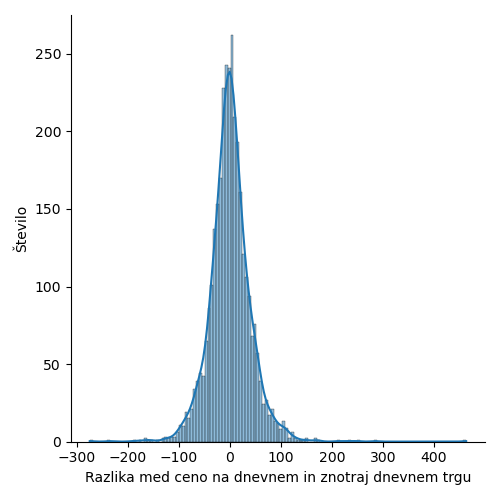
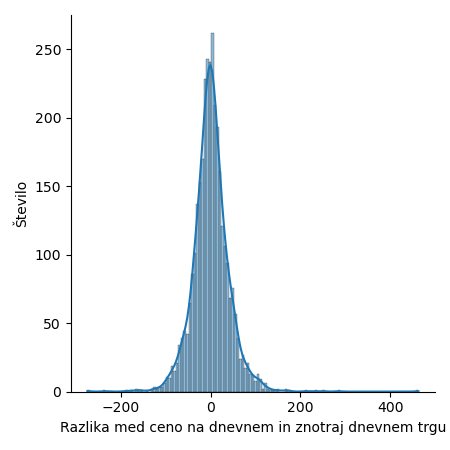
Commited all plots

Changed region(s): [[0.0311, 0.0311, 0.9956, 0.9644]]

diff --git a/src/data_analysis/data_analysis.py b/src/data_analysis/data_analysis.py
@@ -1,22 +1,61 @@
+import itertools
+
 import numpy as np
 import pandas as pd
 import pmdarima as pmd
 import seaborn as sns
 import datetime as dt
 from scipy import stats
-from matplotlib import pyplot as plt
+from matplotlib import pyplot as plt, rcParams
 from scipy.stats import linregress
 from statsmodels.graphics.tsaplots import plot_acf, plot_pacf
 from statsmodels.tsa.seasonal import seasonal_decompose
 from statsmodels.tsa.stattools import grangercausalitytests
+from statsmodels.tsa.api import VAR
 
 from data_retrieval import get_wind_forecast, \
     get_transformed_day_ahead, get_intra_day_min_max_mean, get_diff, get_pct_change_dataframe, get_intra_day_by_hours, \
     get_wind, get_solar, get_residual_load, get_wind_diff, get_solar_diff, get_residual_load_diff, \
-    get_wind_deltas_previous_24h, get_solar_deltas_previous_24h, get_residual_deltas_previous_24h
+    get_wind_deltas_previous_24h, get_solar_deltas_previous_24h, get_residual_deltas_previous_24h, get_intra_day
 
 plot_path = "plots"
 csv_path = "csv"
+
+
+def plot_day_ahead_and_intra_day(start_date='2021-11-09',
+                                 end_date='2022-03-23'):
+    """
+    Plots all intra-day and day-ahead prices
+    :param start_date: start date of plot (x-axis)
+    :param end_date: end date of plot (x-axis)
+    """
+    df_intra_day = get_intra_day(start_date=start_date, end_date=end_date)
+    df_day_ahead = get_transformed_day_ahead(start_date=start_date, end_date=end_date)
+
+    ax = df_intra_day.plot(x='trd_execution_time', y='trd_price', figsize=(6, 3))
+    df_day_ahead.plot(x='trd_delivery_time_start', y='trd_price', use_index=True, ax=ax, figsize=(6, 3))
+
+    ax.legend(["Znotraj dnevni trg", "Dnevni trg"])
+    ax.set_xlabel("Čas")
+    ax.set_ylabel("Cena")
+    plt.tight_layout()
+    plt.savefig(f'{plot_path}/full_plot.png')
+
+
+def plot_weather_and_residual(start_date='2021-11-09',
+                                 end_date='2022-03-23'):
+    df_wnd = get_wind(start_date=start_date, end_date=end_date).rename(columns={'wnd Actual de': 'Dejanska vrednost'})
+    df_spv = get_solar(start_date=start_date, end_date=end_date).rename(columns={'spv Actual de': 'Dejanska vrednost'})
+    df_rdl = get_residual_load(start_date=start_date, end_date=end_date).rename(columns={'rdl Actual de': 'Dejanska vrednost'})
+
+    df_wnd.plot()
+    plt.savefig(f'{plot_path}/wnd.png')
+
+    ax = df_spv.plot()
+    plt.savefig(f'{plot_path}/spv.png')
+
+    ax = df_rdl.plot()
+    plt.savefig(f'{plot_path}/rdl.png')
 
 
 def plot_price_at_given_time(start_date='2021-11-09',
@@ -171,7 +210,7 @@ def get_day_ahead_as_intra_day_prediction_accuracy(box_plot=False,
     df.plot(kind='hist', bins=100, color='blue', edgecolor='black')
     plt.savefig(f'{plot_path}/{name}_change_hist.png')
 
-    ax = sns.displot(data=df, x=column, kde=True)
+    ax = sns.displot(data=df, x=column, kde=True, height=4.5, aspect=1)
     ax.set(xlabel='Razlika med ceno na dnevnem in znotraj dnevnem trgu', ylabel='Število')
     plt.savefig(f'{plot_path}/{name}_dist.png')
 
@@ -349,13 +388,13 @@ def plot_seasonality():
         plt.tight_layout()
         plt.savefig(f'{plot_path}/seasonality-{(title.lower())}.png')
 
-    plot(seasonal_decompose(df_intra_day['trd_price_mean'], period=1), 'Hourly')
-    plot(seasonal_decompose(df_intra_day['trd_price_mean'], period=24), 'Daily')
-    plot(seasonal_decompose(df_intra_day['trd_price_mean'], period=168), 'Weekly')
-    plot(seasonal_decompose(df_intra_day['trd_price_mean'], period=730), 'Monthly')
+    plot(seasonal_decompose(df_intra_day['trd_price_mean'].rename('Povprečna cena po urah'), period=1), 'Hourly')
+    plot(seasonal_decompose(df_intra_day['trd_price_mean'].rename('Povprečna cena po urah'), period=24), 'Daily')
+    plot(seasonal_decompose(df_intra_day['trd_price_mean'].rename('Povprečna cena po urah'), period=168), 'Tedensko')
+    plot(seasonal_decompose(df_intra_day['trd_price_mean'].rename('Povprečna cena po urah'), period=730), 'Mesečno')
 
 
-def plot_auto_correlation():
+def plot_correlation():
     """
     Plots auto-correlation and partial auto-correlation
     """
@@ -364,10 +403,16 @@ def plot_auto_correlation():
     df_intra_day['trd_delivery_time_start'] = pd.to_datetime(df_intra_day['trd_delivery_time_start'])
     df_intra_day = df_intra_day.set_index('trd_delivery_time_start')
     plot_acf(df_intra_day['trd_price_mean'])
+    plt.ylabel("Avtokorelacija")
+    plt.xlabel("Zamik v urah")
+    plt.title("")
     plt.savefig(f'{plot_path}/auto_correlation.png')
 
     # Partial auto-correlation plot
     plot_pacf(df_intra_day['trd_price_mean'], method='ywm')
+    plt.ylabel("Parcialna avtokorelacija")
+    plt.xlabel("Zamik")
+    plt.title("")
     plt.savefig(f'{plot_path}/partial_auto_correlation.png')
 
 
@@ -434,6 +479,7 @@ def granger_causality(start_date='2021-11-09',
     :return: pandas dataframe with p-values for granger causality for all hour combinations
     """
     df = get_intra_day_by_hours(start_date=start_date, end_date=end_date)
+    df_diff = df
     stationary = False
     max_diff = 0
     # Make time series stationary
@@ -441,28 +487,63 @@ def granger_causality(start_date='2021-11-09',
         stationary = True
         for hour in range(24):
             # Augmented Dickey-Fuller test
-            diff = pmd.arima.ndiffs(df[hour], test="adf")
+            diff = pmd.arima.ndiffs(df_diff[hour], test="adf")
             if diff > 0:
                 stationary = False
             if diff > max_diff:
                 max_diff = diff
             # Kwiatkowski–Phillips–Schmidt–Shin test
-            diff = pmd.arima.ndiffs(df[hour], test="kpss")
+            diff = pmd.arima.ndiffs(df_diff[hour], test="kpss")
             if diff > 0:
                 stationary = False
             if diff > max_diff:
                 max_diff = diff
         while max_diff > 0:
-            df = df.diff().dropna()
+            df_diff = df_diff.diff().dropna()
             max_diff -= 1
 
-    return get_grangers_causation_matrix(df, variables=df.columns)
+    # Determine the appropriate maximum lag length for the variables in the VAR, say p, using the usual methods.
+    # Specifically, base the choice of p on the usual information criteria, such as AIC, SIC.
+    model = VAR(df)  # recall that rawData is w/o difference operation
+    for i in [1, 2, 3, 4, 5, 6, 7, 8, 9, 10, 11, 12]:
+        result = model.fit(i)
+        try:
+            print('Lag Order =', i)
+            print('AIC : ', result.aic)
+            print('BIC : ', result.bic)
+            print('FPE : ', result.fpe)
+            print('HQIC: ', result.hqic, '\n')
+        except:
+            continue
+    mask = np.random.rand(len(df)) < 0.8
+    train = df[mask]
+    test = df[~mask]
+
+    model = VAR(train)
+    model_fitted = model.fit(2)
+
+    from statsmodels.stats.stattools import durbin_watson
+    out = durbin_watson(model_fitted.resid)
+
+    for col, val in zip(df.columns, out):
+        print(col, ':', round(val, 2))
+
+    lag_order = model_fitted.k_ar
+    print(lag_order)
+
+    import statsmodels.tsa.stattools as ts
+    for column1, column2 in itertools.combinations(df.columns, 2):
+        result = ts.coint(df[column1], df[column2])
+        if result[1] < 0.05:
+            print(column1, column2, result[1])
+
+    return get_grangers_causation_matrix(df_diff, variables=df_diff.columns, max_lag=lag_order)
 
 
 # Taken from
 # https://stackoverflow.com/questions/58005681/is-it-possible-to-run-a-vector-autoregression-analysis-on-a-large-gdp-data-with
 # Max lag is 1 as it was only necessary to difference once
-def get_grangers_causation_matrix(data, variables, test='ssr_chi2test', verbose=False, max_lag=1):
+def get_grangers_causation_matrix(data, variables, test='ssr_chi2test', verbose=False, max_lag=3):
     df = pd.DataFrame(np.zeros((len(variables), len(variables))), columns=variables, index=variables)
     for c in df.columns:
         for r in df.index:
@@ -477,7 +558,7 @@ def get_grangers_causation_matrix(data, variables, test='ssr_chi2test', verbose=
 
 
 if __name__ == "__main__":
-    plot_price_at_given_time()
+    """plot_price_at_given_time()
     plot_average_price_of_product()
     plot_average_price_of_product(max_time_before_closing=30, unit='minutes')
     plot_average_price_of_product(max_time_before_closing=1, unit='hours')
@@ -495,6 +576,7 @@ if __name__ == "__main__":
     plot_seasonality()
     plot_diff()
     plot_std_of_diff_by_day()
+    plot_correlation()
     df_granger_causation_matrix = granger_causality()
     df_granger_causation_matrix.to_csv(f'{csv_path}/granger_causality.csv')
     df_wind_diff_corr = get_wind_diff_correlation()
@@ -531,4 +613,57 @@ if __name__ == "__main__":
         annot=True, cmap=sns.diverging_palette(240, 10, as_cmap=True), fmt='.2g', center=0)
     plt.title("Residual")
     plt.tight_layout()
-    plt.save(f'{plot_path}/residual_deltas.png')
+    plt.save(f'{plot_path}/residual_deltas.png')"""
+
+
+    def set_size(width, fraction=1):
+        """Set figure dimensions to avoid scaling in LaTeX.
+
+        Parameters
+        ----------
+        width: float
+                Document textwidth or columnwidth in pts
+        fraction: float, optional
+                Fraction of the width which you wish the figure to occupy
+
+        Returns
+        -------
+        fig_dim: tuple
+                Dimensions of figure in inches
+        """
+        # Width of figure (in pts)
+        fig_width_pt = width * fraction
+
+        # Convert from pt to inches
+        inches_per_pt = 1 / 72.27
+
+        # Golden ratio to set aesthetic figure height
+        # https://disq.us/p/2940ij3
+        golden_ratio = (5 ** .5 - 1) / 2
+
+        # Figure width in inches
+        fig_width_in = fig_width_pt * inches_per_pt
+        # Figure height in inches
+        fig_height_in = fig_width_in * golden_ratio
+
+        fig_dim = (fig_width_in, fig_height_in)
+
+        return fig_dim
+
+
+    """ df = granger_causality()
+    mask = np.zeros_like(df, dtype=np.bool)
+    mask[np.triu_indices_from(mask)] = True
+    plt.figure(figsize=(10,5))
+    sns.heatmap(df, mask=mask, cmap="YlGnBu_r", annot=True, fmt='.2f')
+    plt.tight_layout()
+    plt.show()
+    print("DONE")"""
+    # plot_day_ahead_and_intra_day()
+    print("HERE")
+    #plot_correlation()
+    #get_day_ahead_as_intra_day_prediction_accuracy()
+    # get_day_ahead_as_intra_day_prediction_accuracy(percentage=True, remove_outliers=True)
+    #plot_weather_and_residual()
+    plot_seasonality()
+    print("DONE")

diff --git a/src/models/classification/xgboost_model.py b/src/models/classification/xgboost_model.py
@@ -1,9 +1,13 @@
 import time
 
+import numpy as np
+
 import shap
 import xgboost as xgb
 from matplotlib import pyplot as plt
 from sklearn import metrics
+from sklearn.metrics import confusion_matrix, ConfusionMatrixDisplay
+
 from src.data_analysis.data_retrieval import get_train_test_split
 
 plot_path = 'plots'
@@ -29,9 +33,19 @@ def train_and_test_model(X_train, X_test, y_train, y_test, plt_title):
 
     explainer = shap.TreeExplainer(model)
     shap_values = explainer.shap_values(X_train)
-    shap.summary_plot(shap_values, X_train, plot_type="bar", class_names=y_train.unique(), show=False)
+    plt.figure(figsize=(10, 10))
+    shap.summary_plot(shap_values, X_train, plot_type="bar", class_names=y_train.unique(),
+                      show=False, class_inds=np.argsort(y_train.unique()))
     plt.tight_layout()
     plt.savefig(f'{plot_path}/{plt_title}_imp.png')
+    plt.clf()
+
+    cm = confusion_matrix(y_test, predictions, labels=model.classes_)
+    disp = ConfusionMatrixDisplay(confusion_matrix=cm,
+                                  display_labels=model.classes_)
+    disp.plot()
+    plt.title(plt_title)
+    plt.savefig(f'{plot_path}/{plt_title}_conf_matrix.png')
     plt.clf()
     print(50 * "-")
 
@@ -39,6 +53,14 @@ def train_and_test_model(X_train, X_test, y_train, y_test, plt_title):
 if __name__ == "__main__":
     # SIMPLE
     # SINGLE DAY
+    X_train, X_test, y_train, y_test = get_train_test_split(split_timestamp='2022-03-21 00:00:00',
+                                                            exogenous=True,
+                                                            next_day=True,
+                                                            labeled=True,
+                                                            simple_labels=True
+                                                            )
+    train_and_test_model(X_train, X_test, y_train, y_test, plt_title="simple_single_day_next_exo")
+
     start = time.time()
     X_train, X_test, y_train, y_test = get_train_test_split(split_timestamp='2022-03-21 00:00:00',
                                                             base=True,

diff --git a/src/data_analysis/data_retrieval.py b/src/data_analysis/data_retrieval.py
@@ -606,7 +606,7 @@ def get_labeled_data(simple=False,
 
     else:
         conditions = [
-            # Label 14
+            # Label 13
             ((df['trd_price'] - df_intra_day['trd_price_mean']) > 60),
 
             # Label 13
@@ -617,8 +617,6 @@ def get_labeled_data(simple=False,
             ((df['trd_price'] - df_intra_day['trd_price_mean']) <= 50) &
             ((df['trd_price'] - df_intra_day['trd_price_mean']) > 40),
 
-            # Label 11
-            (df['trd_price'] - df_intra_day['trd_price_mean']) > 40,
 
             # Label 10
             ((df['trd_price'] - df_intra_day['trd_price_mean']) <= 40) &
@@ -664,7 +662,7 @@ def get_labeled_data(simple=False,
             (df['trd_price'] - df_intra_day['trd_price_mean']) < -60
         ]
 
-        values = [i for i in range(14, -1, -1)]
+        values = [i for i in range(13, -1, -1)]
     # df['price_diff'] = df['trd_price'] - df_intra_day['trd_price_mean']
     df['label'] = np.select(conditions, values, default='Undefined')
     return df
@@ -674,7 +672,7 @@ def get_train_test_split(base=False,
                          next_day=False,
                          exogenous=False,
                          labeled=False,
-                         simple_labels=True,
+                         simple_labels=False,
                          split_timestamp='2022-03-21 00:00:00',
                          start_date='2021-11-09',
                          end_date='2022-03-22'):

diff --git a/src/models/classification/random_forest_model.py b/src/models/classification/random_forest_model.py
@@ -22,6 +22,7 @@ def train_and_test_model(X_train, X_test, y_train, y_test, plt_title):
        :return: None
        """
     plt_title = "c_random_forest_" + plt_title
+    print(plt_title)
     model.fit(X_train, y_train)
 
     predictions = model.predict(X_test)
